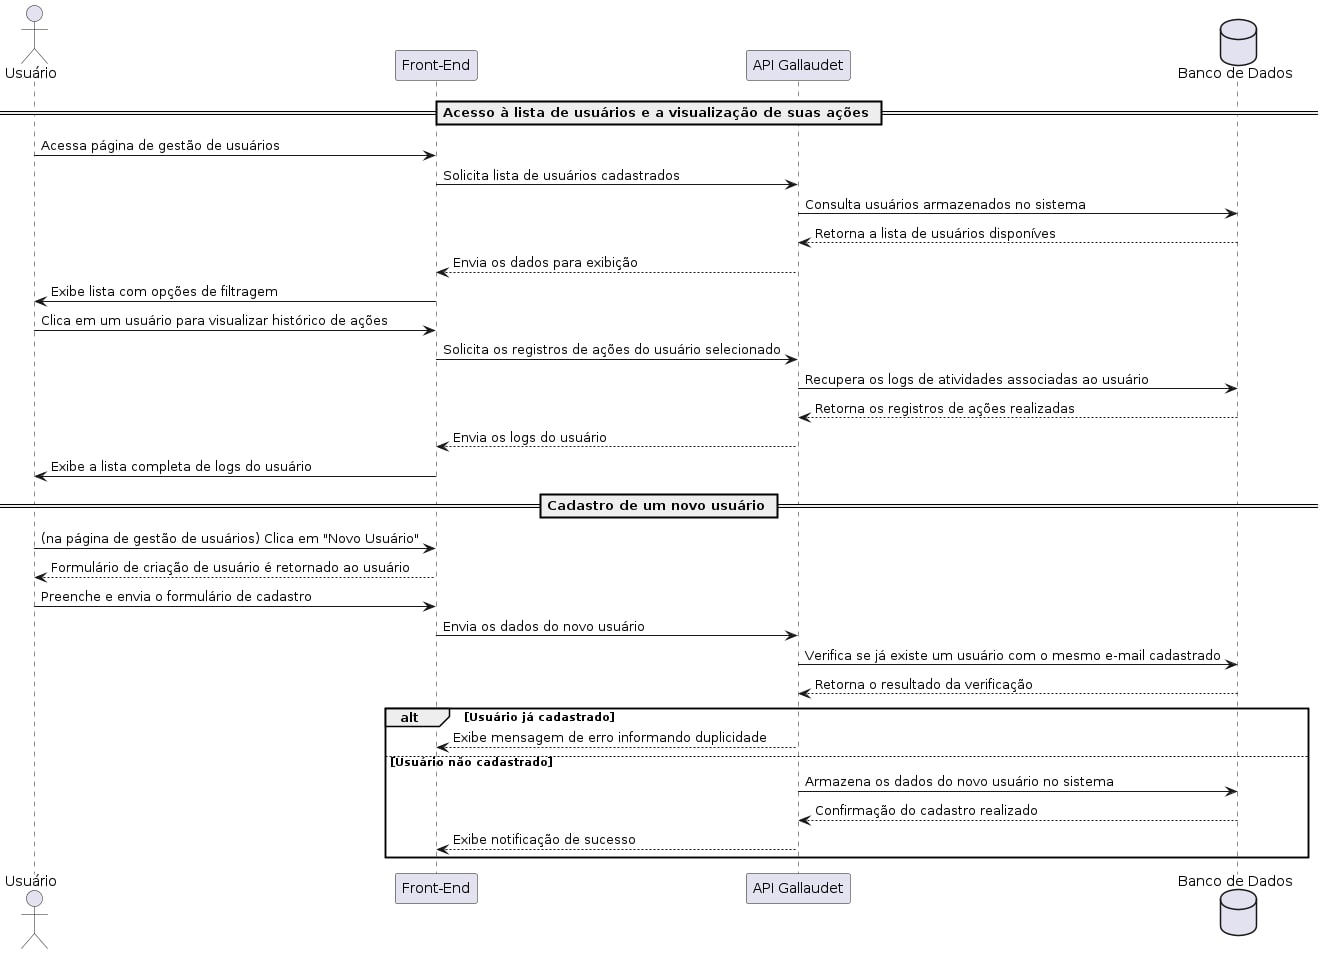
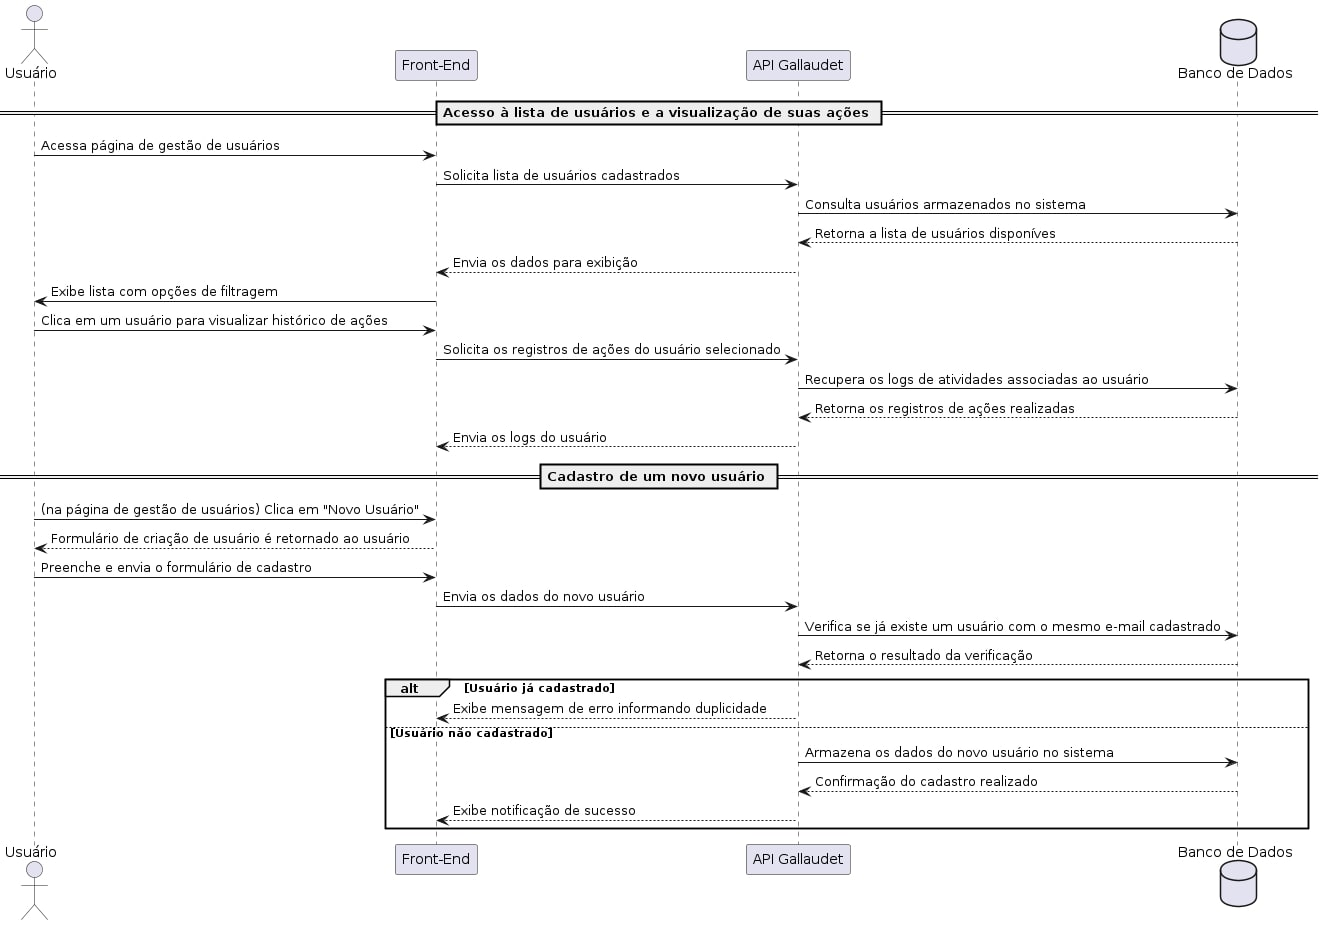
docs: remove envios do frontend para o usuario

diff --git a/docs/project.md b/docs/project.md
@@ -1104,8 +1104,7 @@ Repo -> DB : Consulta tabela logs_atendimentos
 DB -- > (Observação: foi adicionado um espaço antes de ">", senão o comentário seria quebrado) Repo : Retorna logs
 Repo -- > (Observação: foi adicionado um espaço antes de ">", senão o comentário seria quebrado) Business : Retorna dados
 Business -- > (Observação: foi adicionado um espaço antes de ">", senão o comentário seria quebrado) Controller : Envia registros consolidados
-Controller -- > (Observação: foi adicionado um espaço antes de ">", senão o comentário seria quebrado) FE : Retorna dados
-FE -- > (Observação: foi adicionado um espaço antes de ">", senão o comentário seria quebrado) Usuario : Exibe timeline do aluno
+Controller -- > (Observação: foi adicionado um espaço antes de ">", senão o comentário seria quebrado) FE : Exibe timeline do aluno
 
 @enduml
 -->
@@ -1157,8 +1156,6 @@ api -> db : Buscar dados de assistências
 db -- > (Observação: foi adicionado um espaço antes de ">", senão o comentário seria quebrado) api : Retorna dados
 api -- > (Observação: foi adicionado um espaço antes de ">", senão o comentário seria quebrado) frontend : Retorna dados processados (insights, gráficos)
 
-frontend -> usuario : Exibe dashboard e permite filtros
-
 @enduml
 -->
 
@@ -1202,7 +1199,6 @@ FE -> API : Solicita os registros de ações do usuário selecionado
 API -> DB : Recupera os logs de atividades associadas ao usuário
 DB -- > (Observação: foi adicionado um espaço antes de ">", senão o comentário seria quebrado) API : Retorna os registros de ações realizadas
 API -- > (Observação: foi adicionado um espaço antes de ">", senão o comentário seria quebrado) FE : Envia os logs do usuário
-FE -> user : Exibe a lista completa de logs do usuário
 
 == Cadastro de um novo usuário ==
 
